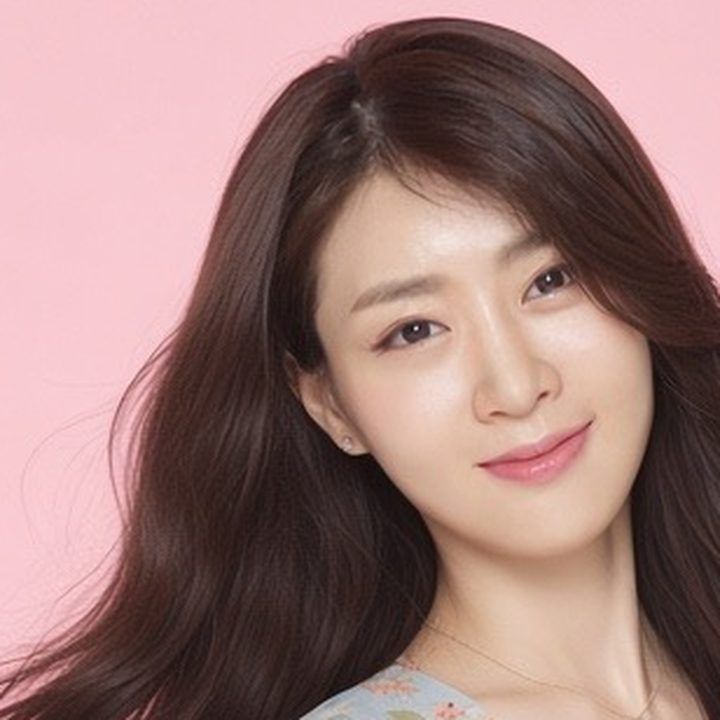
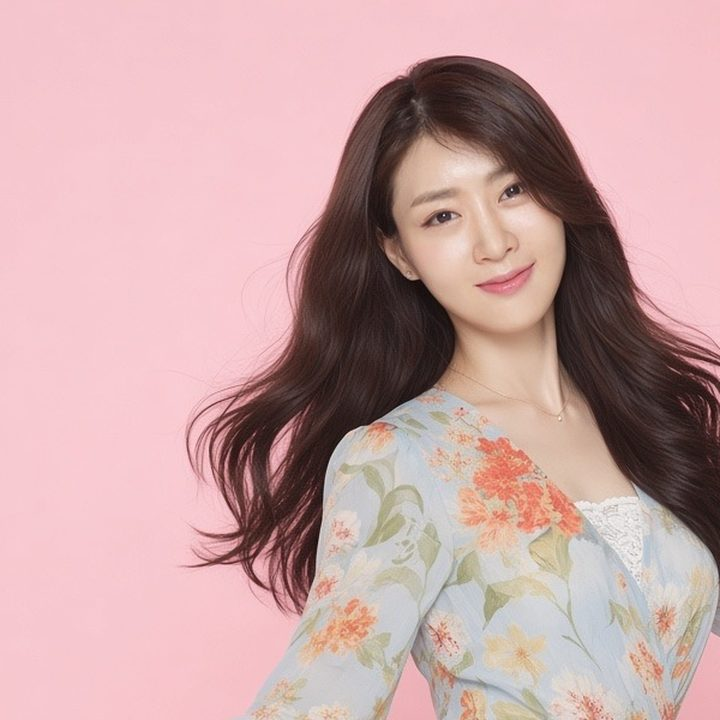
어디야 꽃무늬 원피스 사진 미디엄으로
Claude-Session: https://claude.ai/code/session_01Q9nWZonnK5vvRUcemeCVRT

diff --git a/app/index.html b/app/index.html
@@ -1105,7 +1105,7 @@
   }
   // 어디야 사진 돌리기(11-22 시험): 체리 → 어머니·아이·학생·친구… → 다시 체리. 모두 AI 인물(대표님 제공)
   // 11-22: 얼굴이 오른쪽 위에 크게(클로즈업), 오른쪽을 보던 인물은 미리 좌우 뒤집어 왼쪽(글씨 쪽)을 보게 잘라 둠 — 사진 위쪽 기준
-  var EO_FACES = [['../img/eodiya-cherry12.jpg', '40%'], ['../img/ex/face1.jpg?v=2', '0%'], ['../img/ex/face9.jpg?v=2', '0%'], ['../img/ex/face3.jpg?v=2', '0%'], ['../img/ex/face2.jpg?v=2', '0%'], ['../img/ex/face10.jpg?v=2', '0%'], ['../img/ex/face8.jpg?v=2', '0%'], ['../img/ex/face6.jpg?v=2', '0%'], ['../img/ex/face11.jpg?v=2', '0%'], ['../img/ex/face4.jpg?v=2', '0%'], ['../img/ex/face7.jpg?v=2', '0%'], ['../img/ex/face12.jpg?v=2', '0%'], ['../img/ex/face5.jpg?v=2', '0%']];
+  var EO_FACES = [['../img/eodiya-cherry12.jpg', '40%'], ['../img/ex/face1.jpg?v=2', '0%'], ['../img/ex/face9.jpg?v=2', '0%'], ['../img/ex/face3.jpg?v=2', '0%'], ['../img/ex/face2.jpg?v=2', '0%'], ['../img/ex/face10.jpg?v=2', '0%'], ['../img/ex/face8.jpg?v=3', '0%'], ['../img/ex/face6.jpg?v=2', '0%'], ['../img/ex/face11.jpg?v=2', '0%'], ['../img/ex/face4.jpg?v=2', '0%'], ['../img/ex/face7.jpg?v=2', '0%'], ['../img/ex/face12.jpg?v=2', '0%'], ['../img/ex/face5.jpg?v=2', '0%']];
   // 사진 돌리기 공통(11-22): 4.5초마다 사르르, ⏸ 누르면 지금 사진에서 멈추고 기억(다음에 열어도 그 사진), ▶ 누르면 다시
   function picStop(key, v) { try { if (v === undefined) return localStorage.getItem(key); if (v === null) localStorage.removeItem(key); else localStorage.setItem(key, String(v)); } catch (e) { return null; } }
   function rotator(o) { // o: {host, layers, key, delay, onShow(k), btnHost}

diff --git a/sw.js b/sw.js
@@ -1,5 +1,5 @@
 /* 싸바 서비스워커 — 새 파일을 먼저 받고(network-first), 인터넷이 약하면 저장해 둔 화면을 보여줌 */
-var CACHE = 'sava-v383';
+var CACHE = 'sava-v384';
 var SHELL = ['./', './app/', './eodiya/', './lucky/', './shoot/', './fly/', './pool/', './match/', './rps/', './updown/', './mole/', './chosung/', './eye/', './react/', './omok/', './baduk/', './alkkagi/', './pang/', './grow/', './emo/', './make/', './c/', './css/brand.css', './css/sk.css', './css/sk-world.css',
   './js/codec.js', './js/store.js', './js/designs.js', './js/render.js', './js/roster.js', './js/notice.js', './js/share.js', './js/msgimg.js', './js/install.js', './js/sound.js',
   './img/icon-192.png?v=4', './img/cherry.webp', './img/cherry-dance-anim.svg', './manifest.webmanifest'];

diff --git a/js/install.js b/js/install.js
@@ -129,7 +129,7 @@
     try { navigator.serviceWorker.register(SELF.replace(/js\/install\.js.*$/, 'sw.js')).catch(function () {}); } catch (e) {}
   }
   // ---------- 최신 버전 업데이트 ----------
-  var VER = '2026.11.22-408'; // 올릴 때마다 version.json 과 같이 올림
+  var VER = '2026.11.22-409'; // 올릴 때마다 version.json 과 같이 올림
   var BASE_DIR = SELF ? SELF.replace(/js\/install\.js.*$/, '') : '/';
   var CORE = ['js/install.js', 'js/share.js', 'js/msgimg.js', 'js/designs.js', 'js/render.js', 'js/export.js', 'js/codec.js', 'js/store.js', 'demo/js/card.js', 'css/sk.css', 'css/brand.css', 'sw.js', 'app/', 'make/', 'eodiya/', 'c/'];
   // 휴대폰 브라우저가 묵혀 둔 파일을 서버의 새 파일로 바꿔 둠 (화면은 그대로)

diff --git a/docs/STATUS.md b/docs/STATUS.md
@@ -3,9 +3,10 @@
 > 대화방을 닫기 전에 Claude가 이 파일을 최신으로 고쳐서 커밋한다.
 > 새 방에서 "싸바"라고 하면: 이 파일 → 최근 커밋 순서로 확인하고 바로 이어서 작업.
 
-마지막 갱신: 2026-11-22 05:30
+마지막 갱신: 2026-11-22 05:35
 
 ## 1. 마지막으로 올린 작업
+- 2026-11-22 05:35 — 어디야 face8(꽃무늬 원피스) 너무 클로즈업 → 미디엄(가슴 위까지, 얼굴 오른쪽 위)으로 다시 자름 · face8.jpg?v=3 · 버전 2026.11.22-409 / sw sava-v384
 - 2026-11-22 05:30 — 홈 v2 싸바카드 칸 사진판을 카드 가로 꽉 차게 16:9(테두리·여백 없이, .mkph aspect-ratio) — 언니김치 특판 작은 띠는 빼고 바로 아래 따로 카드(.v2-kc): 16:9 갓김치 사진(img/kimchi-wide.jpg, 깨 뿌린 사진 잘라 만듦) + 🔥 특판 딱지 + '여수 언니 갓김치 / 5kg 60,000원 · 배송비 포함 · 작년 가격 그대로' + [보러 가기 ›] → ../kimchi/ · 버전 2026.11.22-408 / sw sava-v383
 - 2026-11-22 05:20 — 어디야 인물 사진 4장 추가(대표님 제공 AI 인물): face9 에펠탑(좌우 뒤집어 글씨 쪽 시선, 틱톡 화면 표시 피해 자름)·face10 단발 흰 티·face11 눈 속 빨간 목도리·face12 하늘 새틴 — 같은 방식(얼굴 오른쪽 위 클로즈업, Kling 표시 피함). 순서: 체리→1→9→3→2→10→8→6→11→4→7→12→5(나이대 섞이게 사이사이). ※ 젊은 여성 사진 비중이 커짐 — 어르신·남성·가족 사진이 더 오면 균형 맞추기 · 버전 2026.11.22-407 / sw sava-v382
 - 2026-11-22 05:10 — 어디야 인물 사진 다시 자름(대표님: 얼굴 위주 클로즈업, 오른쪽 위로, 오른쪽 보는 인물은 왼쪽 보게): face1~8.jpg를 원본에서 720px 정사각으로 새로 — 얼굴 너비의 약 2.8배 크기, 얼굴을 가로 66%·세로 36%(오른쪽 위)에, 오른쪽을 보던 어머니·남학생·아이·마이크 여성(1·2·3·5)은 좌우 뒤집어 글씨 쪽을 보게. 칸에선 cover·위쪽 기준(EO_FACES '0%'). 2번 검은 띠·3번 Kling 표시는 피해서 자름. 7·8번은 원본 얼굴이 작아 확대해 조금 흐릴 수 있음 · face*.jpg?v=2 · 버전 2026.11.22-406 / sw sava-v381 (405는 옛 위치 목록이 겹쳐 덮어써서 406에서 하나로 정리)
